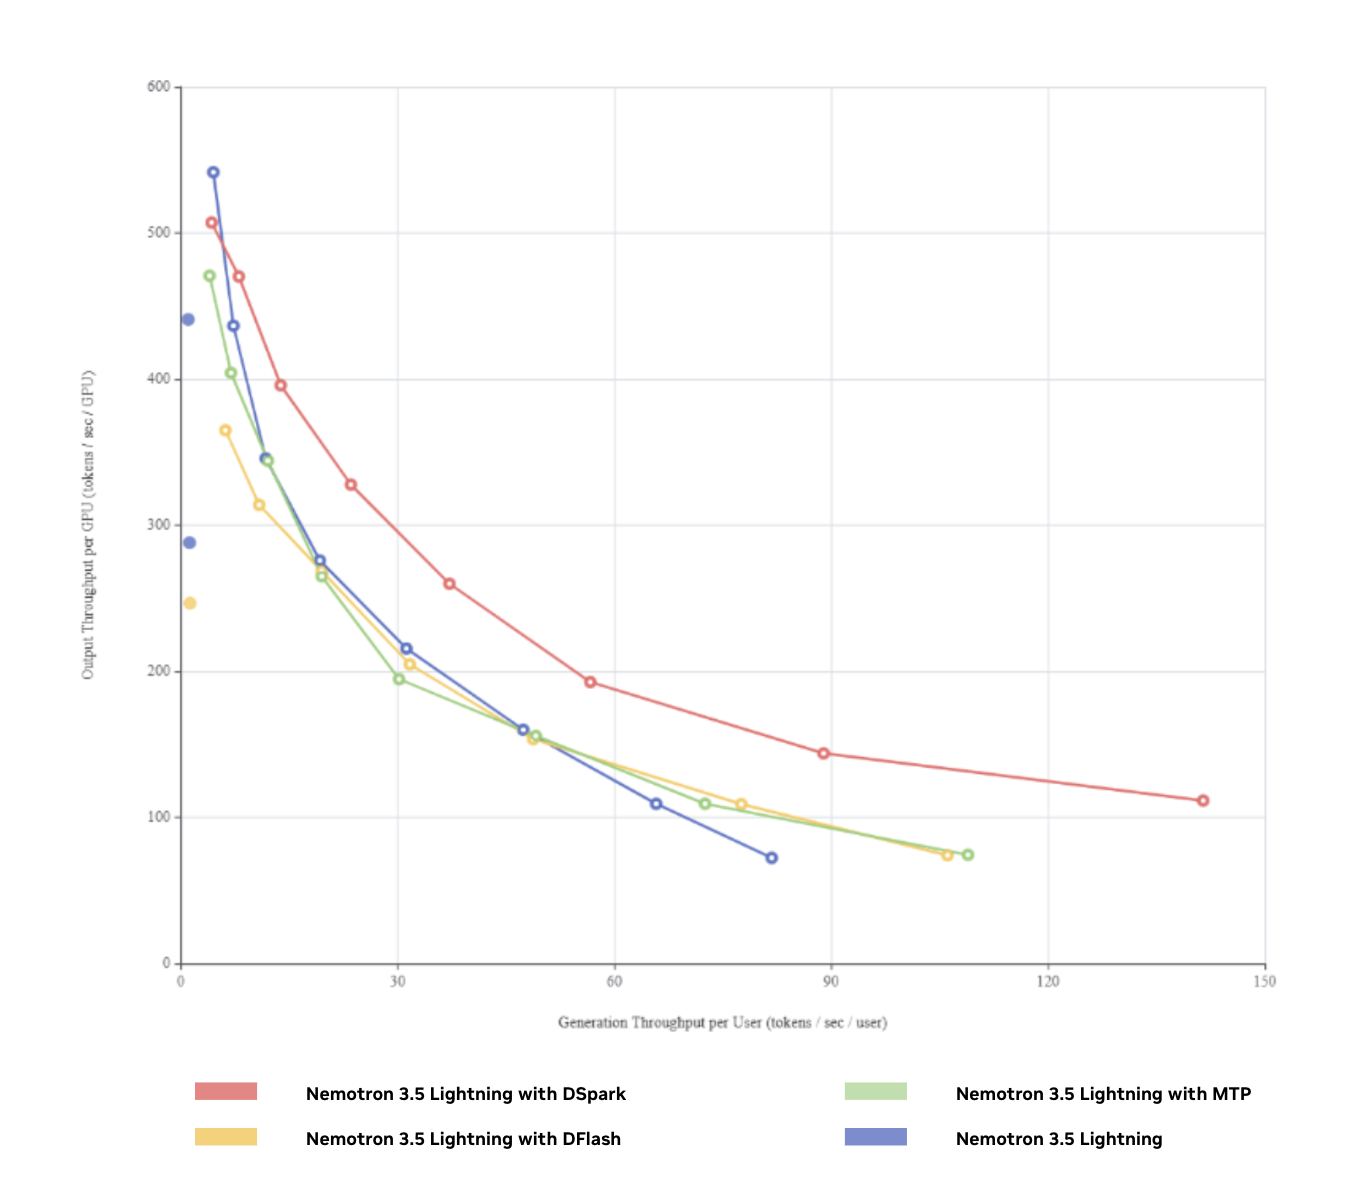
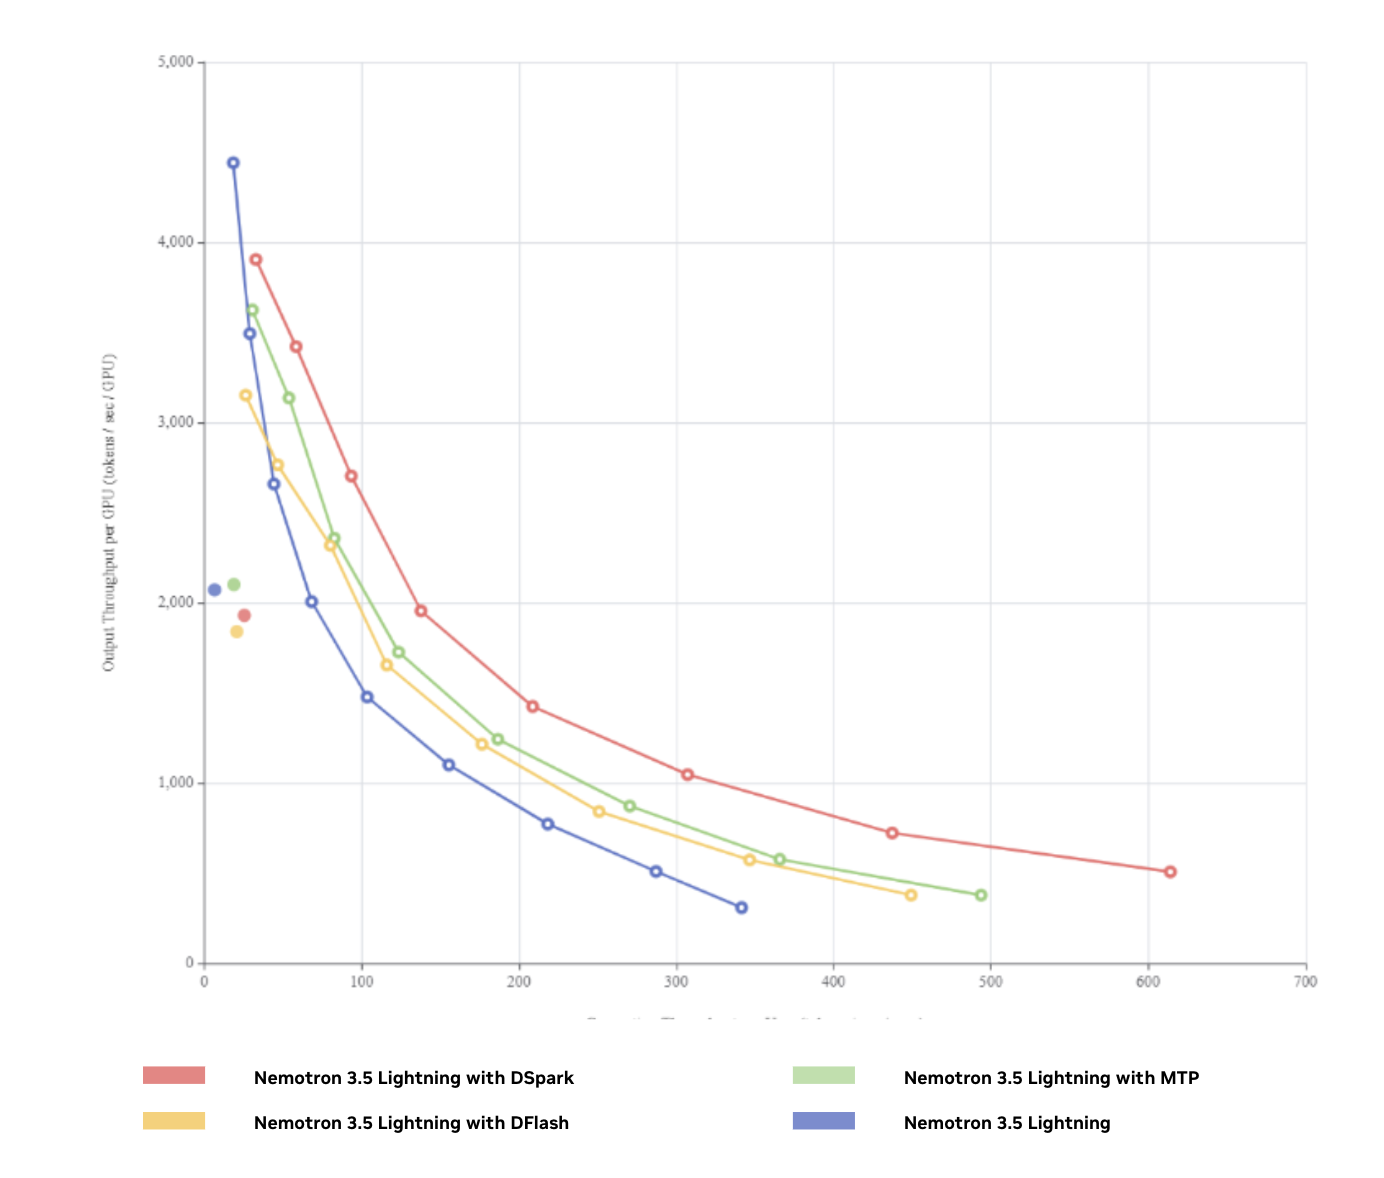
Fix Nemotron Lightning Pareto chart order (#306)

diff --git a/_posts/2026-08-10-nemotron-3-5-lightning-vllm.md b/_posts/2026-08-10-nemotron-3-5-lightning-vllm.md
@@ -215,9 +215,7 @@ vllm serve --model nvidia/NVIDIA-Nemotron-3.5-Lightning-30B-A3B-NVFP4 \
 </picture>
 </p>
 
-Figure 1: Pareto chart comparing inference performance of Nemotron 3.5 Lightning using various speculative decoding techniques on NVIDIA DGX Spark. Config - Prefix - 32K, and then 10 rounds of 2k input and 10k output.
-
-Alt text: Image of Pareto chart showcasing inference performance of Nemotron 3.5 Lightning using various speculative decoding techniques on NVIDIA DGX Spark. Config - Prefix - 32K, and then 10 rounds of 2k input and 10k output.
+Figure 1: Pareto chart comparing inference performance of Nemotron 3.5 Lightning using various speculative decoding techniques on NVIDIA DGX Spark. Config - Prefix - 32K, and then 10 rounds of 2k input and 1k output.
 
 ## Deploy on NVIDIA H100
 
@@ -247,9 +245,7 @@ vllm serve --model nvidia/NVIDIA-Nemotron-3.5-Lightning-30B-A3B-NVFP4 \
 </picture>
 </p>
 
-Figure 2: Pareto chart comparing inference performance of Nemotron 3.5 Lightning using various speculative decoding techniques on NVIDIA H100 GPUs. Config - Prefix - 32K, and then 10 rounds of 2k input and 10k output.
-
-Alt text: Image of Pareto chart showcasing inference performance of Nemotron 3.5 Lightning using various speculative decoding techniques on NVIDIA H100 GPUs. Config - Prefix - 32K, and then 10 rounds of 2k input and 10k output.
+Figure 2: Pareto chart comparing inference performance of Nemotron 3.5 Lightning using various speculative decoding techniques on NVIDIA H100 GPUs. Config - Prefix - 32K, and then 10 rounds of 2k input and 1k output.
 
 # Local Deployment on NVIDIA Jetson
 
@@ -284,8 +280,6 @@ As shown in Figure 3, higher inference throughput and token efficiency places Ne
 </p>
 
 Figure 3: Nemotron 3.5 Lightning leads the efficiency frontier by completing agentic tasks up to 30% faster at comparable accuracies.
-
-Alt text: Line chart comparing PinchBench accuracy with time to complete 10,000 tasks. Nemotron 3.5 Lightning reaches similar accuracy as Qwen3.6 35B 30% faster.
 
 # Summary
 
